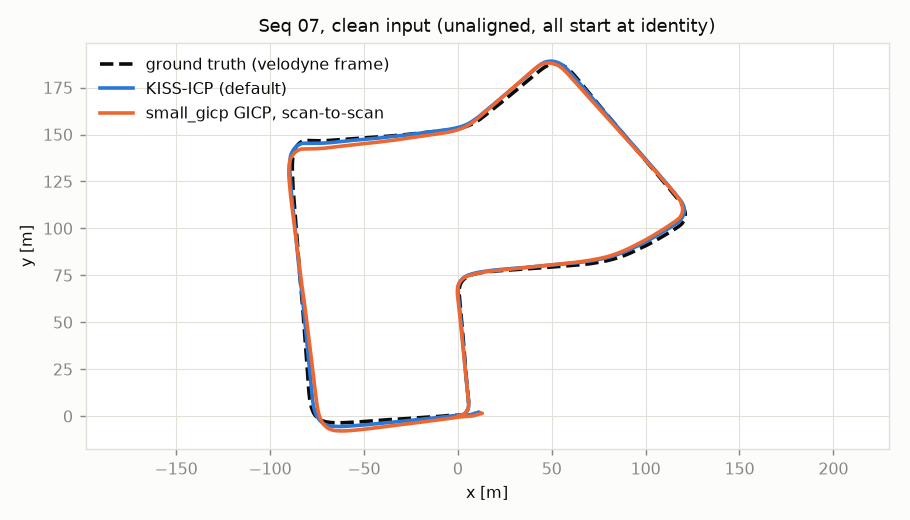
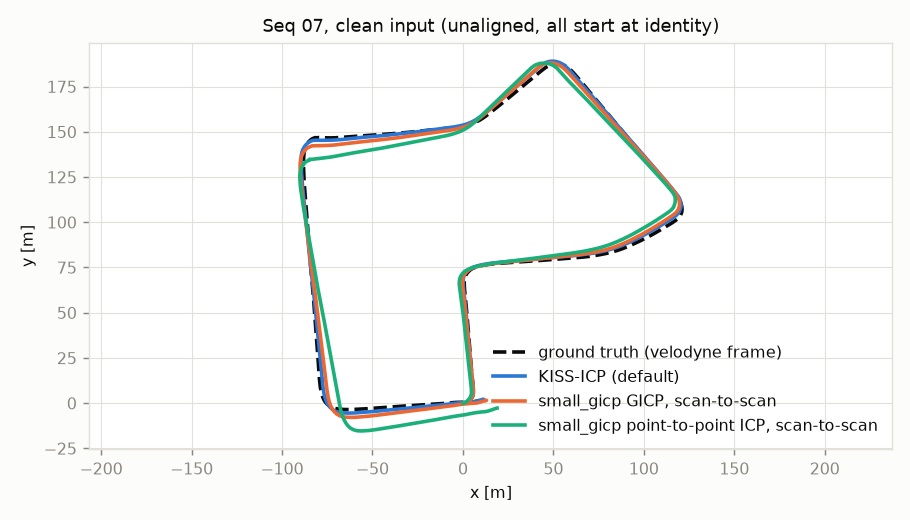
Add point-to-point ICP baseline on sequence 07

diff --git a/README.md b/README.md
@@ -8,8 +8,7 @@ road at a mean 14.6 m/s), applies five synthetic degradations at three or four
 levels each, runs three odometry front ends on every degraded copy, and scores
 the trajectories against KITTI ground truth. A first pass repeats the sweep on
 sequence 07 (1101 scans, 694.4 m of residential streets at a mean 6.3 m/s,
-ending 9.4 m from its start) with two of the methods. 135 runs, about 13
-minutes on a laptop CPU.
+ending 9.4 m from its start). 162 runs, about 18 minutes on a laptop CPU.
 
 > **Scope.** Two sequences, synthetic degradations of real scans, fixed
 > default parameters for every method. The numbers describe these
@@ -66,33 +65,32 @@ above 10 %). The full table is [`results/04.csv`](results/04.csv).
 
 ## Findings (sequence 07, first pass)
 
-KISS-ICP and GICP only (no ICP baseline yet). Drift here uses the 100–600 m
-segments of the 694 m loop. The full table is
+Drift here uses the 100–600 m segments of the 694 m loop. The full table is
 [`results/07.csv`](results/07.csv).
 
 1. **Clean input.** KISS-ICP: 0.70 % drift, 0.63 m ATE, 9.9 ms per scan.
-   GICP: 1.19 %, 1.29 m, 6.3 ms.
+   GICP: 1.19 %, 1.29 m, 6.3 ms. Point-to-point ICP: 2.65 %, 4.05 m, 9.1 ms.
 2. **Where each method breaks:**
 
-   | Degradation | KISS-ICP | GICP (scan-to-scan) |
-   |---|---|---|
-   | Beams 64 → 8 | not broken (2.58 % at 8 rings) | not broken (4.17 % at 8 rings) |
-   | Dropout to 90 % | not broken (≤ 0.67 %) | not broken (≤ 1.64 %) |
-   | Range noise to 10 cm | not broken (≤ 0.70 %) | not broken (≤ 1.16 %) |
-   | Max range 80 → 10 m | 10 m (56.3 %) | not broken (5.80 % at 10 m) |
-   | Scan rate 10 → 1.25 Hz | 1.25 Hz (10.4 %) | not broken (8.96 % at 1.25 Hz) |
+   | Degradation | KISS-ICP | GICP (scan-to-scan) | P2P ICP (scan-to-scan) |
+   |---|---|---|---|
+   | Beams 64 → 8 | not broken (2.58 % at 8 rings) | not broken (4.17 % at 8 rings) | 16 rings (10.9 %) |
+   | Dropout to 90 % | not broken (≤ 0.67 %) | not broken (≤ 1.64 %) | not broken (≤ 4.33 %) |
+   | Range noise to 10 cm | not broken (≤ 0.70 %) | not broken (≤ 1.16 %) | not broken (≤ 3.20 %) |
+   | Max range 80 → 10 m | 10 m (56.3 %) | not broken (5.80 % at 10 m) | 10 m (23.1 %) |
+   | Scan rate 10 → 1.25 Hz | 1.25 Hz (10.4 %) | not broken (8.96 % at 1.25 Hz) | 1.25 Hz (40.4 %) |
 
 3. **The sequence 04 pattern holds, with later breaks.** Fewer rings again
    costs GICP more than KISS-ICP (8 rings: 4.17 % against 2.58 %), but
-   nothing diverges on these streets. Range truncation again favours GICP: at
+   neither diverges on these streets; point-to-point ICP does, from 16 rings. Range truncation again favours GICP: at
    10 m KISS-ICP's estimate covers 266.4 m of the 694.4 m path, while GICP
    drifts 5.80 %.
 4. **Inter-scan motion, not scan rate, looks like the limit.** Both methods
    hold at 2.5 Hz here (0.72 % each), where all three failed on sequence 04.
    The car is slower (mean 6.3 m/s), so 1.25 Hz means about 5.0 m between
-   scans, close to the 5.8 m of sequence 04 at 2.5 Hz. At that spacing both
-   methods sit near the 10 % line (KISS-ICP 10.4 %, GICP 8.96 %). Two
-   sequences are not enough to pin the number.
+   scans, close to the 5.8 m of sequence 04 at 2.5 Hz. At that spacing
+   KISS-ICP and GICP sit near the 10 % line (10.4 % and 8.96 %) and ICP
+   fails (40.4 %). Two sequences are not enough to pin the number.
 5. **The 10 m RPE has a floor on this sequence.** Clean input scores 0.28 m
    (KISS-ICP) and 0.27 m (GICP) over 10 m, against 0.07–0.09 m on sequence 04,
    and every dropout, noise and 80–20 m truncation run of both methods stays
@@ -110,8 +108,9 @@ the odometry devkit maps to odometry sequence 04. The alignment is checked at
 load time: the frame counts of the raw slice, `poses/04.txt` and `times.txt`
 agree (271), and the raw Velodyne timestamps match `times.txt` to within
 3.2 ms on every frame (the code asserts < 10 ms), so no frame is dropped or
-duplicated inside the slice. Ground
-truth (camera-0 frame) is moved into the Velodyne frame with the sequence's
+duplicated inside the slice. Sequence 07 is raw drive
+`2011_09_30_drive_0027`, frames 0–1100, and passes the same checks (1101
+frames). Ground truth (camera-0 frame) is moved into the Velodyne frame with the sequence's
 calibration, `T_velo_i = Tr⁻¹ · T_cam_i · Tr`. Every method gets the same
 input: the raw scan with KISS-ICP's KITTI vertical-angle correction
 (`_correct_kitti_scan`, the same call its KITTI dataloader makes), then the
@@ -123,7 +122,9 @@ starts wherever the azimuth steps from just below 0 to just above it. On all 279
 raw scans of the drive this gives exactly 64 rings whose median elevation falls
 strictly from top to bottom (frame 0: +2.3° to −23.7°, mean spacing 0.33° in
 the upper 32 rings and 0.49° in the lower 32, the HDL-64E's two blocks). The
-load step asserts both properties on every scan. Elevation is used as the check
+load step asserts both properties on every scan. On sequence 07 all 1101 scans
+also give 64 rings, but in 21 of them two adjacent rings swap median elevation
+by up to 0.37°, so the check allows swaps below 0.5°. Elevation is used as the check
 rather than the label: assigning each point to the nearest ring-median
 elevation disagrees with the scan-order ring for 11 %, 40 % and 29 % of the
 points of frames 0, 135 and 270, at near and far range alike.
@@ -166,12 +167,13 @@ Seeded draws are identical across methods (same seed, same scan order).
 - **KITTI drift**: the devkit's average translational error over 100–800 m
   segments (the copy shipped in `kiss_icp.metrics`). Sequence 04 is 394 m long,
   so only the 100, 200 and 300 m segments exist; treat it as indicative.
+  Sequence 07 (694 m) uses 100–600 m.
 - **Runtime**: wall-clock per scan for the whole odometry step (preprocessing,
   downsampling, registration, map update), excluding file I/O and the
   degradation. 8 threads per method on an Intel Core Ultra 7 255H (16
   hardware threads), one run per condition.
 - **Divergence flag**: a run is flagged when its KITTI drift exceeds 10 %
-  (about 20× the clean KISS-ICP value), a pose is non-finite, or the method
+  (about 20× the clean KISS-ICP value on sequence 04), a pose is non-finite, or the method
   throws. The threshold is a choice. It uses drift rather than a 10 m segment
   error because drift is defined at every scan rate. The CSV also keeps the
   worst 10 m segment error (`rpe10_max_m`), so the flag can be re-cut.
@@ -180,7 +182,7 @@ Seeded draws are identical across methods (same seed, same scan order).
 
 - **Two sequences.** Sequence 04 is 27 s of straight road (net heading
   change −0.1°), and 07 is one residential loop. Nothing is averaged over
-  sequences, and the ICP baseline has only been run on 04.
+  sequences.
 - **Synthetic degradations of real scans.** Dropout is i.i.d., while real
   dropout is structured (dark or specular surfaces, rain, spray). Range noise
   is Gaussian and independent of range and incidence angle. Truncation removes
@@ -189,11 +191,12 @@ Seeded draws are identical across methods (same seed, same scan order).
   the pattern of a real 16- or 32-beam sensor.
 - **The first scan pair at low rate has no motion prior.** Every method starts
   from identity, so on sequence 04 at 2.5 Hz the first registration must close
-  about 5.8 m from a zero guess (about 12 m at 1.25 Hz). Some rate failures may be initialisation failures rather
-  than steady-state ones.
+  about 5.8 m from a zero guess (about 12 m at 1.25 Hz). Some rate failures
+  may be start-up failures rather than tracking limits; a GT-seeded first
+  step would separate the two.
 - **Defaults, not tuned systems.** No method was re-tuned per degradation. A
-  GICP with a larger neighbourhood, or a scan-to-model GICP, would likely
-  survive sparser input. The comparison is also not only GICP against
+  GICP with a larger neighbourhood, or a scan-to-model GICP, might survive
+  sparser input; that is untested. The comparison is also not only GICP against
   point-to-point: KISS-ICP keeps a local map, the small_gicp variants here do
   not, so map vs. no map is confounded with the cost function.
 - **Runtime is indicative.** One run per condition, on a laptop with other
